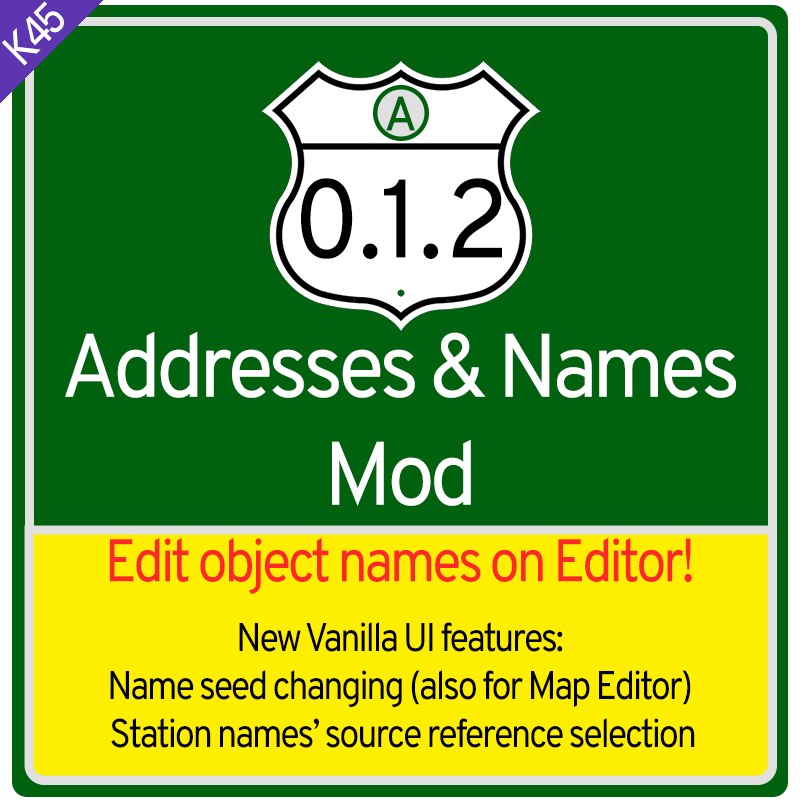
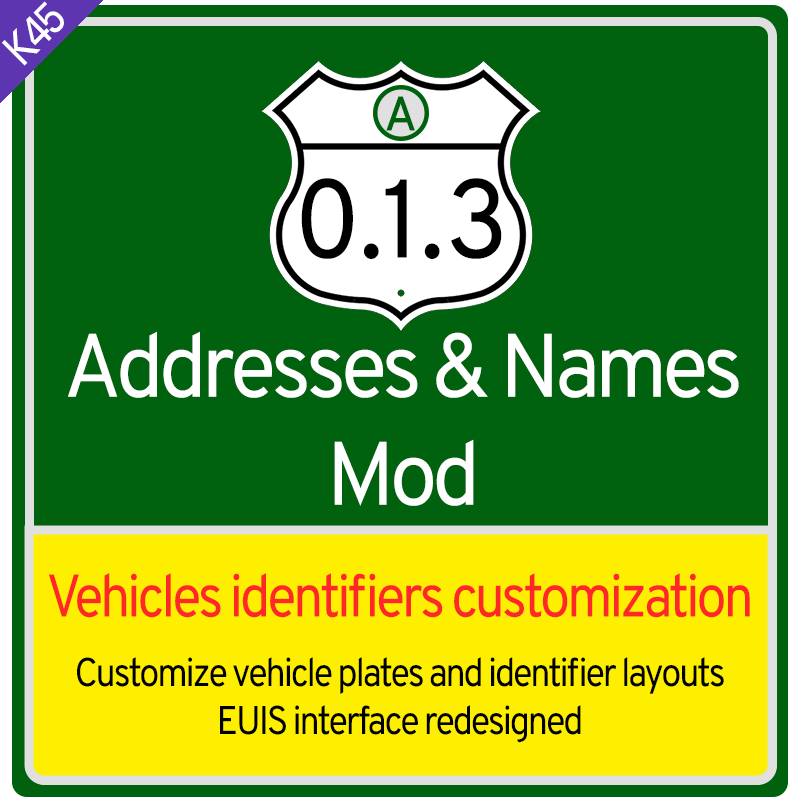
v0.1.3r0 Release version

diff --git a/BelzontAdr/Systems/AdrEditorUISystem.cs b/BelzontAdr/Systems/AdrEditorUISystem.cs
@@ -61,7 +61,8 @@ namespace BelzontAdr
             {
                 Entity prefab = prefabRef.m_Prefab;
                 FilterSelection(ref entity, ref prefab);
-                if (SelectedInfoUISystem.TryGetPosition(entity, EntityManager, out Entity entity2, out float3 selectedPosition, out Bounds3 bounds, out quaternion quaternion, false) || EntityManager.HasComponent<Household>(entity))
+                int elIdx = 0;
+                if (SelectedInfoUISystem.TryGetPosition(entity, EntityManager, ref elIdx, out Entity entity2, out float3 selectedPosition, out Bounds3 bounds, out quaternion quaternion, false) || EntityManager.HasComponent<Household>(entity))
                 {
                     selectedPosition.y = MathUtils.Center(bounds.y);
                     m_SelectedEntity = entity;

diff --git a/BelzontAdr/Systems/AdrAggregationSystem.cs b/BelzontAdr/Systems/AdrAggregationSystem.cs
@@ -1,4 +1,4 @@
-#if DEBUG && ADR_AGGSYS
+#if DEBUG && ADR_AGGSYS 
 using Belzont.Interfaces;
 using Belzont.Utils;
 using Colossal.Collections;

diff --git a/BelzontAdr/changelog.md b/BelzontAdr/changelog.md
@@ -1,4 +1,4 @@
-# v0.1.3r0 (??-???-??)
+# v0.1.3r0 (11-DEC-24)
 - Removed feature to autoname based on districts - use manual selection instead!
 - Merged Districts and Road override settings
 - Fixed behavior of naming based on districts when the vanilla generator is being used
